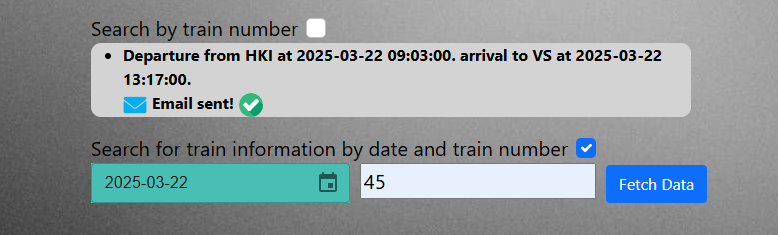
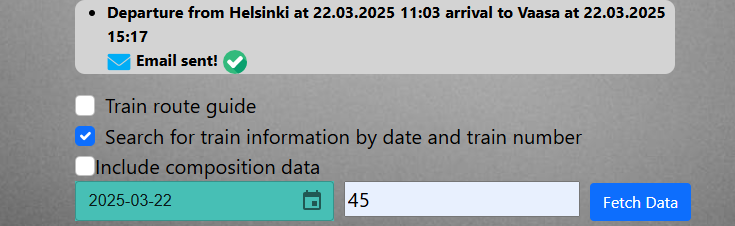
date convert and station code converts added to train.js

diff --git a/src/pages/train.js b/src/pages/train.js
@@ -37,8 +37,10 @@ function Train() {
     let date = Date()
     var [dateValue, setDateValue] = useState(dayjs(date))
     const stations = ["Helsinki", "Tampere", "Oulu", "Vaasa", "Seinäjoki", 'Jyväskylä', 'Rovaniemi', 'Kajaani', 'Joensuu']
+    var stationsRealNames = { Helsinki: "HKI", Tampere: "TPE", Seinäjoki: "SK", Turku: "TKU", Oulu: "OL", Vaasa: "VS", Jyväskylä: "JY", Rovaniemi: "ROI", Kajaani: "KAJ", Joensuu: "JNS" }
+    var stationShorts={HKI:'Helsinki',VS:'Vaasa',TPE:'Tampere',SK:"Seinäjoki",TKU:"Turku",JY:"Jyväskylä",ROI:"Rovaniemi",KAJ:"Kajaani",JNS:"Joensuu"}
+    
     function clear() {
-
         document.getElementById("list").hidden = true
         document.getElementById("clearBtn").hidden = true
         setShowTts(showTts = false)
@@ -49,7 +51,7 @@ function Train() {
         //ensimmäisen kirjaimen muunto isoksi kirjaimeksi, koska stationrealnamesin propertyt on isolla kirjaimella
         FromStation = FromStation.charAt(0).toUpperCase() + FromStation.slice(1)
         toStation = toStation.charAt(0).toUpperCase() + toStation.slice(1)
-        var stationsRealNames = { Helsinki: "HKI", Tampere: "TPE", Seinäjoki: "SK", Turku: "TKU", Oulu: "OL", Vaasa: "VS", Jyväskylä: "JY", Rovaniemi: "ROI", Kajaani: "KAJ", Joensuu: "JNS" }
+        //var stationsRealNames = { Helsinki: "HKI", Tampere: "TPE", Seinäjoki: "SK", Turku: "TKU", Oulu: "OL", Vaasa: "VS", Jyväskylä: "JY", Rovaniemi: "ROI", Kajaani: "KAJ", Joensuu: "JNS" }
         //tarkistus löytyykö käyttäjän syöttämät asemat sanakirjasta
         if (FromStation in stationsRealNames && toStation in stationsRealNames) {
             var startStation = stationsRealNames[FromStation]
@@ -81,6 +83,7 @@ function Train() {
                     if (i % 2 == 0) {
                         li.setAttribute("class", "liData2")
                     }
+                    //muunnetaan rest-apin pvm yyyy-dd-mm muodosts dd-mm-yyyy muotoon
                     var dateFormat=dayjs(d.timeTableRows[0].scheduledTime)
                     
                     if (dateConvert)
@@ -141,7 +144,8 @@ function Train() {
 
 
     function handleCompositionData(pDay, pTrainNum) {
-
+        var stationname;
+        var endStation;
         const URLi = `https://rata.digitraffic.fi/api/v1/compositions/${pDay}/${pTrainNum}`
         const USERID = { 'Digitraffic-User': 'Junamies/FoobarApp 1.0' }
         fetch(URLi, { headers: USERID })
@@ -150,14 +154,29 @@ function Train() {
             })
             //data on json-tulosjoukon nimi
             .then(data => {
-                console.log(data)
+                //console.log(data)
                 //data käydään silmukassa läpi, d on silmukkamuuttuja kuin esim i for-loopissa
                 data.journeySections.forEach(d => {
                     const li = document.createElement("li")
+                    var stationcode = d.beginTimeTableRow.stationShortCode
+                    var stationEnd=d.endTimeTableRow.stationShortCode
+                    var dateFormatStart=dayjs(d.beginTimeTableRow.scheduledTime)
+                    var dateFormatEnd=dayjs(d.endTimeTableRow.scheduledTime)
+                    
+
+                    if (stationcode in stationShorts && stationEnd in stationShorts)
+                        {
+                            stationname=stationShorts[stationcode]
+                            stationEnd=stationShorts[stationEnd]
+                             li.innerText = "Departure from " + stationname+ " at " + dateFormatStart.format("DD.MM.YYYY HH:mm") + " arrival to " +stationEnd + " at " + dateFormatEnd.format("DD.MM.YYYY HH:mm") 
+                             document.getElementById("list").appendChild(li)
+                            
+                        } 
+                    /*
                     if (include) {
                         li.innerText = "Departure from " + d.beginTimeTableRow.stationShortCode + " at " + d.beginTimeTableRow.scheduledTime.replace("T", " ").replace("Z", " ").replace("000", " ") + " arrival to " + d.endTimeTableRow.stationShortCode + " at \n" + d.endTimeTableRow.scheduledTime.replace("T", " ").replace("Z", " ").replace("000 ", " ")+" "+d.wagons.salesNumber
 
-                    }
+                    }*/
                     else {
 
                         //kentässä näytetää json tulosjoukon roadstationid ja sensorvalue-

diff --git a/src/pages/automaticTraffic.js b/src/pages/automaticTraffic.js
@@ -39,6 +39,8 @@ function AutomaticTraffic() {
                         const li = document.createElement("li")
                         li.innerText = d.name + ' ' + d.value+" "+d.timeWindowStart.replace("T"," ").replace(":00Z"," ")+" - "+d.timeWindowEnd.replace(":00Z"," ").replace("T"," ")
                         li.id = "data"
+
+                        //rest-api tulosjoukon 3 rivi jne
                         if (i===3)
                         {
                             setAvgTitle(avgTitle=d.name)
@@ -84,10 +86,11 @@ function AutomaticTraffic() {
             </select>
             <br></br><br></br>
             <input class="form-check-input" type="checkbox" id="avgCB" onChange={() => setAvg(!avg)}></input>
-            <label class="form-check-label" for="avgCB">Average speed on the {road}</label>
+            <label class="form-check-label" for="avgCB">Average speed {road}</label>
             <br></br>
             <input class="form-check-input" type="checkbox" id="avgCB" onChange={() => setBypass(!bypass)}></input>
             <label class="form-check-label" for="avgCB">Bypasses {road}</label>
+            <br></br><br></br>
 
             <div id="graphics">
 
@@ -95,7 +98,7 @@ function AutomaticTraffic() {
                 
                  slotProps={{
                     legend: {
-                      direction: 'column',
+                      direction: 'row',
                       position: { vertical: 'top', horizontal: 'right' },
                     },
                   }}
@@ -105,8 +108,8 @@ function AutomaticTraffic() {
                         {
                             data: [
                                 
-                                { id: 0, value: avg1, label: avgTitle },
-                                { id: 1, value: avg2, label: avgTitle2 },
+                                { id: 0, value: avg1, label: avgTitle,color:"green" },
+                                { id: 1, value: avg2, label: avgTitle2,color:"red" },
                                 
                             ],
                         },
@@ -115,6 +118,12 @@ function AutomaticTraffic() {
                     height={200}
                 />}
                   {bypass && <PieChart
+                   slotProps={{
+                    legend: {
+                      direction: 'row',
+                      position: { vertical: 'top', horizontal: 'right' },
+                    },
+                  }}
                     series={[
                         {
                             data: [

diff --git a/src/pages/seaVessels.js b/src/pages/seaVessels.js
@@ -70,8 +70,9 @@ function SeaVessels() {
                         vesselBtn.value = d.properties.name + " " + "Nat: " + d.properties.nationality + " Coordinates: " + d.geometry.coordinates + '. Length: ' + d.properties.aisLength + ". Width: " + d.properties.aisWidth + " Activity: " + d.properties.shipActivities[0].activityText + ". Course: " + d.properties.shipState.course + ". Comment: " + d.properties.shipState.aisStateText + " \n Area: " + d.properties.shipState.posArea
                         vesselBtn.name = d.properties.shipState.speed
                         vesselBtn.title = d.geometry.coordinates
+                        
                         setShipLength(shipLength=parseFloat(d.properties.aisLength))
-                        setShipWidth(shipWidth=d.properties.aisWidth)
+                        setShipWidth(shipWidth=parseFloat(d.properties.aisWidth))
                         vesselBtn.addEventListener("click", () => getVesselData(vesselBtn.id))
                         document.getElementById("list").appendChild(vesselBtn)
                         //rivinvaihto aina yhden li:n jälkeen

diff --git a/src/App.css b/src/App.css
@@ -26,6 +26,8 @@
 
 .App-header {
   background-image: url('images/trafficBGMiddle.jpg');
+  /*taustakuva levitetään koko näytön peittäväksi*/
+  background-size: cover;
   min-height: 100vh;
   display: flex;
   flex-direction: column;

diff --git a/README.md b/README.md
@@ -35,6 +35,11 @@ An example view where the user has searched for valid train passenger bulletins 
 
 The user will see a confirmation that the email has been sent. The confirmation will include the text "Email sent!" and a success icon. The confirmation message is automatically deleted after 5 seconds using the JavaScript setTimeout method.
 
+Rest-Api uses shortcodes for stations, for example Helsinki station is HKI. The application has a simple JavaScript dictionary object that has values for most of the station shortcodes, which are used as keys in the dictionary.
+By using key-value pairs, the user sees the actual name of the station in the output, not the shortcode
+
+Additionally, the REST API displays date data in the format YYYY-MM-DD by default. The final result is displayed in the format DD-MM-YYYY, which is the common Finnish date format. This conversion was done using the DayJS library.
+
 ![alt text](src/images/dataoftrain-1.png)
 
 SEARCH TRAIN STATION INFORMATION
